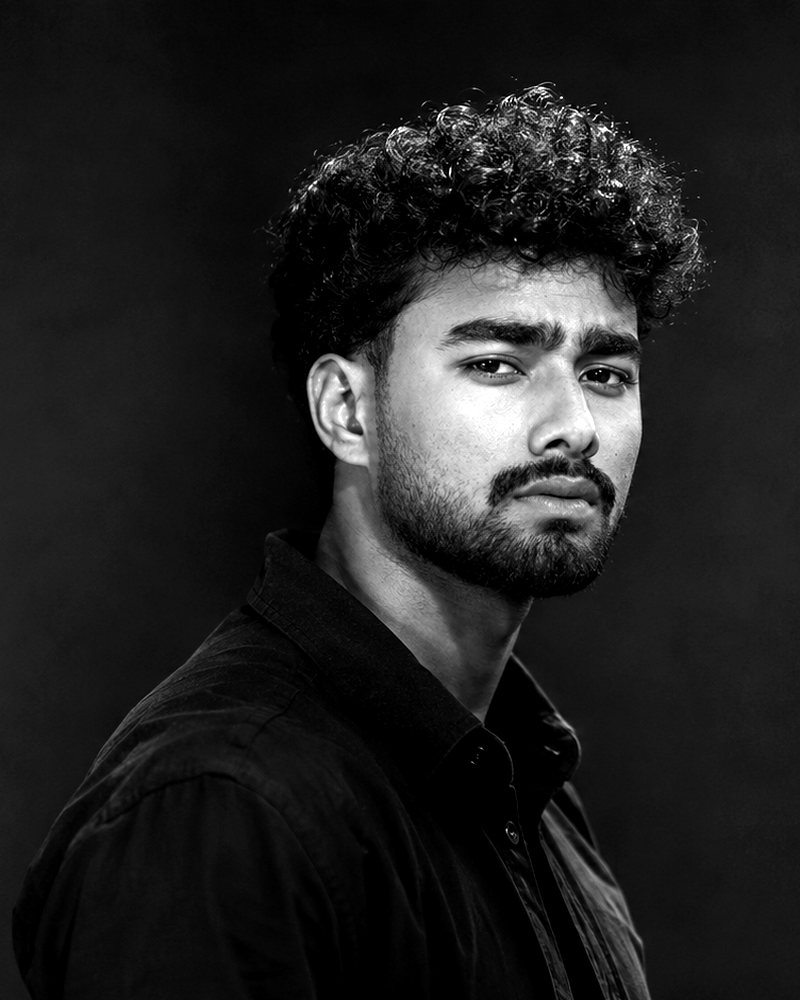
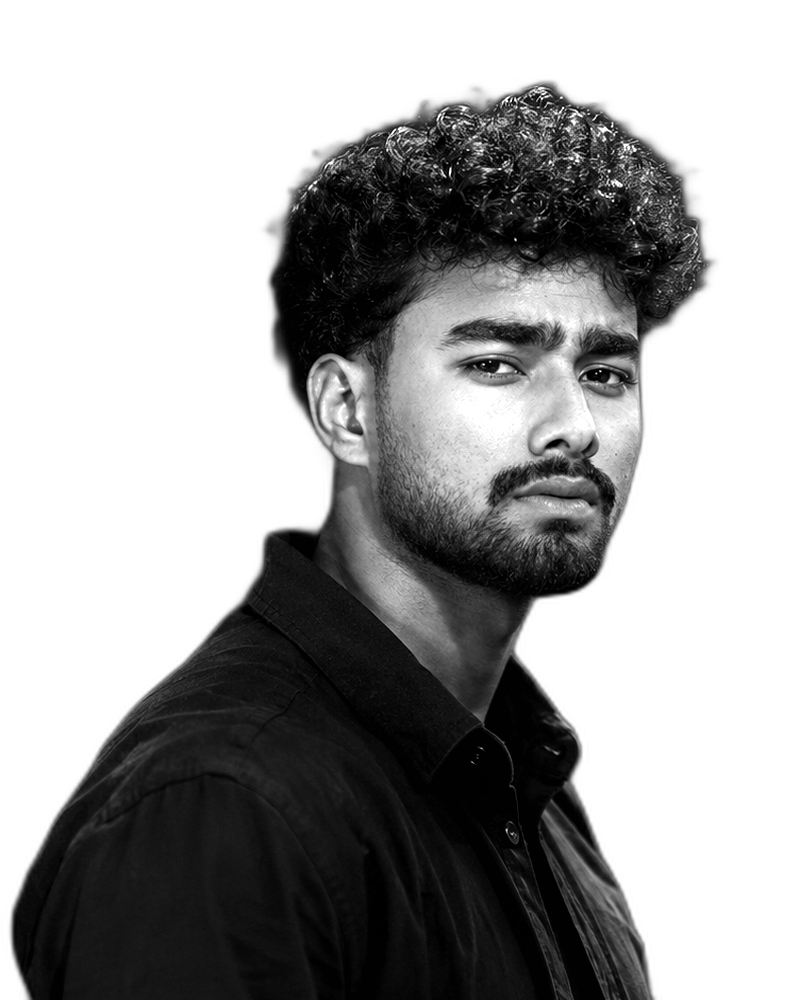
Refine ASCII portrait animation

diff --git a/scripts/make_ascii_svg.py b/scripts/make_ascii_svg.py
@@ -8,7 +8,7 @@ source, target = ROOT / "source-prepped.png", ROOT / "profile-ascii.svg"
 if not source.is_file():
     raise SystemExit("Run scripts/prep_photo.py source-photo.jpg first.")
 cols, rows, cw, ch = 72, 58, 8.2, 13.6
-ramp = " .:-=+*#%@"
+ramp = " .:*SC"
 image = ImageEnhance.Contrast(Image.open(source).convert("L")).enhance(1.15).resize((cols, rows), Image.Resampling.LANCZOS)
 lines = []
 for y in range(rows):
@@ -20,14 +20,18 @@ for y in range(rows):
 width, height, pad, bar = int(cols*cw+40), int(rows*ch+78), 20, 31
 parts = [f'<svg xmlns="http://www.w3.org/2000/svg" viewBox="0 0 {width} {height}" role="img" aria-labelledby="title desc">',
  '<title id="title">Animated ASCII portrait of Afsal A Azeez</title><desc id="desc">A monochrome terminal portrait that reveals once and remains visible.</desc>',
- '<style>text{font-family:ui-monospace,SFMono-Regular,Consolas,monospace}.row{opacity:0;animation:reveal .18s ease-out forwards}@keyframes reveal{to{opacity:1}}</style>',
+ '<style>text{font-family:ui-monospace,SFMono-Regular,Consolas,monospace}</style>',
  f'<rect width="{width}" height="{height}" rx="12" fill="#0d1117"/><rect x=".5" y=".5" width="{width-1}" height="{height-1}" rx="12" fill="none" stroke="#30363d"/>',
  f'<line x2="{width}" y1="{bar}" y2="{bar}" stroke="#30363d"/><text x="{width/2}" y="20" text-anchor="middle" fill="#8b949e" font-size="12">afsal@github: ~/whoami</text>']
 for i, color in enumerate(("#8b949e", "#6e7681", "#484f58")):
     parts.append(f'<circle cx="{pad+i*15}" cy="15" r="4" fill="{color}"/>')
 for y, line in enumerate(lines):
-    delay = y * .045
-    parts.append(f'<text class="row" x="{pad}" y="{bar+17+y*ch:.1f}" fill="#c9d1d9" font-size="{ch*.86:.1f}" xml:space="preserve" textLength="{cols*cw}" lengthAdjust="spacing" style="animation-delay:{delay:.3f}s">{escape(line)}</text>')
+    delay, duration = y * .054, .216
+    row_y = bar + y * ch
+    text = f'<text x="{pad}" y="{bar+17+y*ch:.1f}" fill="#1b2924" font-size="{ch*.86:.1f}" xml:space="preserve" textLength="{cols*cw}" lengthAdjust="spacing">{escape(line)}</text>'
+    parts.append(f'<clipPath id="row-{y}"><rect x="{pad}" y="{row_y:.1f}" width="0" height="{ch:.1f}"><animate attributeName="width" from="0" to="{cols*cw:.1f}" begin="{delay:.3f}s" dur="{duration:.3f}s" fill="freeze"/></rect></clipPath>')
+    parts.append(f'<g clip-path="url(#row-{y})">{text}</g>')
+    parts.append(f'<rect x="{pad}" y="{row_y+1:.1f}" width="{cw:.1f}" height="{ch-2:.1f}" fill="#1b2924" opacity="0"><set attributeName="opacity" to="0.9" begin="{delay:.3f}s"/><animate attributeName="x" from="{pad}" to="{pad+cols*cw:.1f}" begin="{delay:.3f}s" dur="{duration:.3f}s" fill="freeze"/><set attributeName="opacity" to="0" begin="{delay+duration:.3f}s"/></rect>')
 parts += [f'<line x2="{width}" y1="{height-30}" y2="{height-30}" stroke="#30363d"/>', f'<text x="{pad}" y="{height-10}" fill="#8b949e" font-size="12">whoami  <tspan fill="#c9d1d9">Afsal A Azeez</tspan></text>', '</svg>']
 target.write_text(''.join(parts), encoding='utf-8')
 print(f"wrote {target}")

diff --git a/scripts/render_heatmap_svg.py b/scripts/render_heatmap_svg.py
@@ -10,7 +10,7 @@ cell, gap, left, top = 11, 3, 42, 45
 cols, rows = 53, 7
 w, h = left+cols*(cell+gap)+22, top+rows*(cell+gap)+94
 palette=['#21262d','#0e4429','#006d32','#26a641','#39d353']
-svg=[f'<svg xmlns="http://www.w3.org/2000/svg" viewBox="0 0 {w} {h}" role="img" aria-labelledby="title desc"><title id="title">{data["username"]} contribution graph</title><desc id="desc">Animated 53-week GitHub-style contribution heatmap with real public activity data.</desc><style>.c{{opacity:0;animation:appear .25s ease-out forwards}}@keyframes appear{{to{{opacity:1}}}}text{{font-family:ui-monospace,SFMono-Regular,Consolas,monospace}}</style>',f'<rect width="{w}" height="{h}" rx="12" fill="#0d1117"/><rect x=".5" y=".5" width="{w-1}" height="{h-1}" rx="12" fill="none" stroke="#30363d"/><text x="20" y="25" fill="#c9d1d9" font-size="13">{data["total_contributions"]:,} contributions in the last year</text>']
+svg=[f'<svg xmlns="http://www.w3.org/2000/svg" viewBox="0 0 {w} {h}" role="img" aria-labelledby="title desc"><title id="title">{data["username"]} contribution graph</title><desc id="desc">Animated 53-week GitHub-style contribution heatmap with real public activity data.</desc><style>.c{{opacity:0;animation:appear .30s ease-out forwards}}@keyframes appear{{to{{opacity:1}}}}text{{font-family:ui-monospace,SFMono-Regular,Consolas,monospace}}</style>',f'<rect width="{w}" height="{h}" rx="12" fill="#0d1117"/><rect x=".5" y=".5" width="{w-1}" height="{h-1}" rx="12" fill="none" stroke="#30363d"/><text x="20" y="25" fill="#c9d1d9" font-size="13">{data["total_contributions"]:,} contributions in the last year</text>']
 seen=set()
 for col in range(cols):
     d=start+dt.timedelta(days=col*7)
@@ -19,7 +19,7 @@ for col in range(cols):
 for row,label in [(1,'Mon'),(3,'Wed'),(5,'Fri')]: svg.append(f'<text x="9" y="{top+row*(cell+gap)+9}" fill="#8b949e" font-size="9">{label}</text>')
 for col in range(cols):
   for row in range(rows):
-    day=start+dt.timedelta(days=col*7+row); item=days.get(day.isoformat()); level=item['level'] if item else 0; count=item['count'] if item else 0; delay=(col*.018+row*.035)
+    day=start+dt.timedelta(days=col*7+row); item=days.get(day.isoformat()); level=item['level'] if item else 0; count=item['count'] if item else 0; delay=(col*.0216+row*.042)
     svg.append(f'<rect class="c" x="{left+col*(cell+gap)}" y="{top+row*(cell+gap)}" width="{cell}" height="{cell}" rx="2" fill="{palette[level]}" style="animation-delay:{delay:.3f}s"><title>{day}: {count} contribution(s)</title></rect>')
 y=top+rows*(cell+gap)+20
 svg.append(f'<text x="20" y="{y}" fill="#8b949e" font-size="11">Current streak <tspan fill="#58a6ff">{data["current_streak"]["length"]} days</tspan>   ·   Longest <tspan fill="#58a6ff">{data["longest_streak"]["length"]} days</tspan></text>')

diff --git a/scripts/make_info_card.py b/scripts/make_info_card.py
@@ -2,10 +2,10 @@ from pathlib import Path
 ROOT = Path(__file__).resolve().parents[1]
 lines = [("identity", "Afsal A Azeez"), ("role", "Full-Stack Developer"), ("location", "Kerala, India"), ("focus", "Modern web applications"), ("frontend", "Next.js · React · TypeScript"), ("backend", "Node.js · Express · REST APIs"), ("data", "PostgreSQL · MongoDB · Prisma"), ("delivery", "AWS · Vercel · Nginx")]
 w, h = 560, 310
-svg = [f'<svg xmlns="http://www.w3.org/2000/svg" viewBox="0 0 {w} {h}" role="img" aria-labelledby="title desc"><title id="title">Afsal A Azeez developer information</title><desc id="desc">A concise terminal-style developer card.</desc><style>text{{font-family:ui-monospace,SFMono-Regular,Consolas,monospace}}.line{{opacity:0;animation:show .35s ease-out forwards}}@keyframes show{{to{{opacity:1}}}}</style>', f'<rect width="{w}" height="{h}" rx="12" fill="#0d1117"/><rect x=".5" y=".5" width="{w-1}" height="{h-1}" rx="12" fill="none" stroke="#30363d"/><text x="22" y="28" fill="#8b949e" font-size="12">afsal@github: ~/info</text><line x2="{w}" y1="42" y2="42" stroke="#30363d"/>']
+svg = [f'<svg xmlns="http://www.w3.org/2000/svg" viewBox="0 0 {w} {h}" role="img" aria-labelledby="title desc"><title id="title">Afsal A Azeez developer information</title><desc id="desc">A concise terminal-style developer card.</desc><style>text{{font-family:ui-monospace,SFMono-Regular,Consolas,monospace}}.line{{opacity:0;animation:show .42s ease-out forwards}}@keyframes show{{to{{opacity:1}}}}</style>', f'<rect width="{w}" height="{h}" rx="12" fill="#0d1117"/><rect x=".5" y=".5" width="{w-1}" height="{h-1}" rx="12" fill="none" stroke="#30363d"/><text x="22" y="28" fill="#8b949e" font-size="12">afsal@github: ~/info</text><line x2="{w}" y1="42" y2="42" stroke="#30363d"/>']
 for i, (key, value) in enumerate(lines):
     y = 73 + i * 27
-    svg.append(f'<g class="line" style="animation-delay:{i*.13:.2f}s"><text x="22" y="{y}" fill="#58a6ff" font-size="13">{key:<9}</text><text x="145" y="{y}" fill="#c9d1d9" font-size="13">{value}</text></g>')
+    svg.append(f'<g class="line" style="animation-delay:{i*.156:.3f}s"><text x="22" y="{y}" fill="#58a6ff" font-size="13">{key:<9}</text><text x="145" y="{y}" fill="#c9d1d9" font-size="13">{value}</text></g>')
 svg.append('</svg>')
 (ROOT / 'info-card.svg').write_text(''.join(svg), encoding='utf-8')
 print('wrote info-card.svg')

diff --git a/scripts/prep_photo.py b/scripts/prep_photo.py
@@ -2,6 +2,7 @@
 from pathlib import Path
 import sys
 from PIL import Image, ImageEnhance, ImageOps
+from rembg import remove
 
 ROOT = Path(__file__).resolve().parents[1]
 source = Path(sys.argv[1]) if len(sys.argv) > 1 else ROOT / "source-photo.jpg"
@@ -9,7 +10,7 @@ target = Path(sys.argv[2]) if len(sys.argv) > 2 else ROOT / "source-prepped.png"
 if not source.is_file():
     raise SystemExit(f"Portrait not found: {source}")
 
-image = Image.open(source).convert("RGB")
+image = remove(Image.open(source).convert("RGBA"))
 # Center crop to a portrait-friendly 4:5 frame, preserving the face area.
 w, h = image.size
 side = min(w, int(h * 0.8))
@@ -17,8 +18,12 @@ left = (w - side) // 2
 top = max(0, int((h - side / 0.8) * 0.28))
 image = image.crop((left, top, left + side, min(h, top + int(side / 0.8))))
 image = ImageOps.fit(image, (800, 1000), method=Image.Resampling.LANCZOS, centering=(0.5, 0.35))
-image = ImageOps.grayscale(image)
-image = ImageEnhance.Contrast(image).enhance(1.55)
-image = ImageEnhance.Brightness(image).enhance(1.08)
-image.save(target)
+alpha = image.getchannel("A")
+gray = ImageOps.grayscale(image)
+gray = ImageEnhance.Contrast(gray).enhance(1.55)
+gray = ImageEnhance.Brightness(gray).enhance(1.08)
+# White becomes a space in the ASCII ramp, leaving only the isolated subject.
+prepared = Image.new("L", gray.size, 255)
+prepared.paste(gray, mask=alpha)
+prepared.save(target)
 print(f"wrote {target}")
